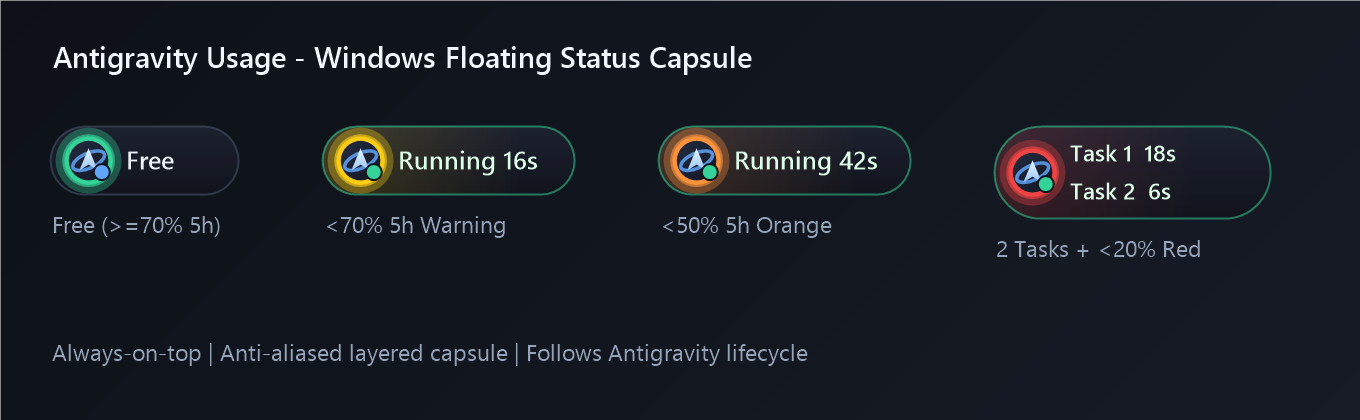
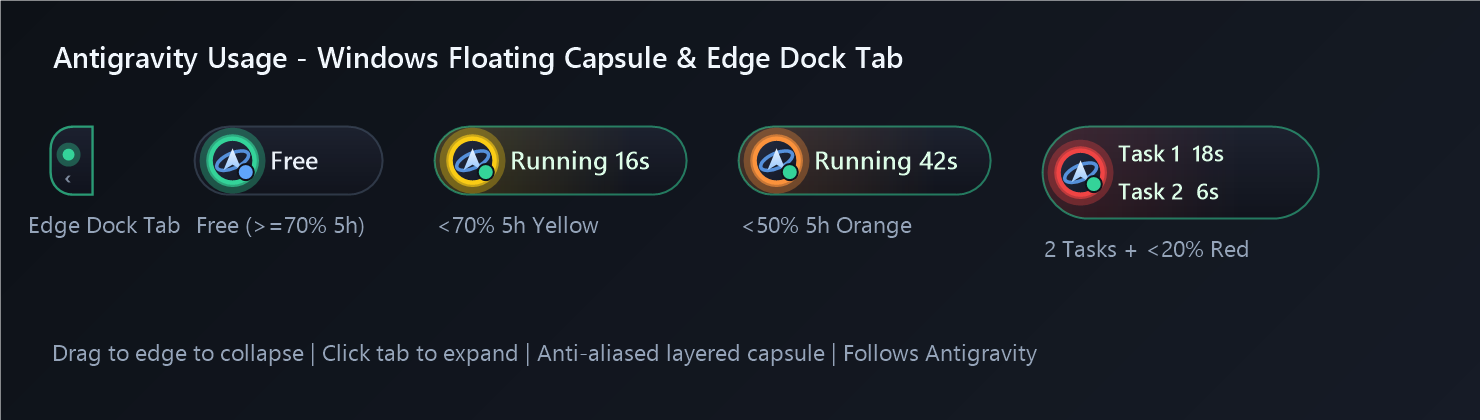
Release v1.2.0

diff --git a/CHANGELOG.md b/CHANGELOG.md
@@ -1,5 +1,18 @@
 # Changelog
 
+## [v1.2.0] - 2026-11-26
+
+### ✨ New Features / 新增功能
+- **Desktop Edge Docking & Auto-Collapse (桌面边缘自动吸附收起与点击唤出)** (`windows/floating-bar.ps1`):
+  - **Edge Dock Detection (智能边缘吸附判定)**: 拖拽悬浮窗至屏幕工作区右侧、左侧或顶部边缘（<= 30px）松手时，自动贴边吸附并收起为极窄小把手（仅 22px 宽），不占用屏幕工作视野。
+  - **Click to Expand / Retract (点击唤出与再次点击收起)**: 鼠标点击贴边小把手，悬浮窗立即向内平滑展开为完整胶囊；再次点击胶囊可立即重新收缩回边缘。
+  - **Edge Tab Status Indicator (贴边把手状态指示)**: 收起状态下把手表面实时保留状态核心点、5 小时额度预警色（绿/黄/橙/红）、运行呼吸动态微光以及展开方向指引箭头（`‹` / `›` / `ˇ`）。
+  - **Drag to Free-Float (拖离边缘恢复自由悬浮)**: 按住胶囊往屏幕中间拖拽脱离边缘，自动退出吸附收起模式，自由常驻在桌面任意位置。
+  - **Context Menu Quick Dock (右键一键贴边)**: 右键菜单新增 `Dock to Edge / Collapse` 选项，支持一键将悬浮窗快速收起到最近边缘。
+  - **Persistent Dock State (贴边状态持久化)**: 自动将 `DockEdge` 和 `IsDocked` 状态保存至配置文件，下次随 Antigravity 启动时自动恢复贴边状态。
+
+---
+
 ## [v1.1.0] - 2026-11-25
 
 ### ✨ New Features / 新增功能

diff --git a/README.zh-CN.md b/README.zh-CN.md
@@ -4,7 +4,7 @@
 
 **专为 Google Antigravity 打造的现代化、轻量级 Token 监控与用量统计插件。**
 
-[![Version](https://img.shields.io/badge/version-1.1.0-blue.svg?style=flat-square)](#)
+[![Version](https://img.shields.io/badge/version-1.2.0-blue.svg?style=flat-square)](#)
 [![License](https://img.shields.io/badge/license-MIT-green.svg?style=flat-square)](LICENSE)
 [![Platform](https://img.shields.io/badge/platform-Windows%20%7C%20macOS%20%7C%20Linux-lightgrey.svg?style=flat-square)](#)
 

diff --git a/README.md b/README.md
@@ -4,7 +4,7 @@
 
 **A modern, lightweight, private token tracking and usage dashboard for Google Antigravity.**
 
-[![Version](https://img.shields.io/badge/version-1.1.0-blue.svg?style=flat-square)](#)
+[![Version](https://img.shields.io/badge/version-1.2.0-blue.svg?style=flat-square)](#)
 [![License](https://img.shields.io/badge/license-MIT-green.svg?style=flat-square)](LICENSE)
 [![Platform](https://img.shields.io/badge/platform-Windows%20%7C%20macOS%20%7C%20Linux-lightgrey.svg?style=flat-square)](#)
 
